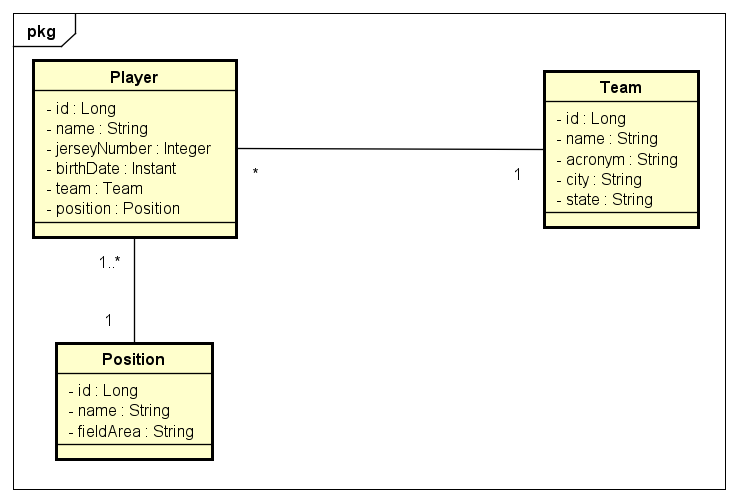
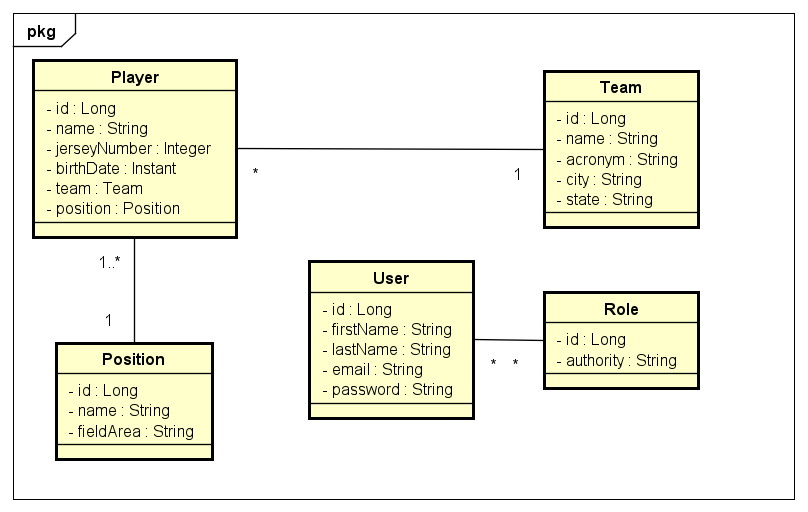
Atualizando modelo conceitual - UML

Changed region(s): [[0.0, 0.0, 0.9973, 0.9861], [0.374, 0.508, 0.8726, 0.8367]]

diff --git a/backend/src/main/java/br/com/brasoccerclub/soccerplayers/config/WebSecurityConfig.java b/backend/src/main/java/br/com/brasoccerclub/soccerplayers/config/WebSecurityConfig.java
@@ -28,7 +28,7 @@ public class WebSecurityConfig extends WebSecurityConfigurerAdapter {
 
 	@Override
 	public void configure(WebSecurity web) throws Exception {
-		web.ignoring().antMatchers("/actuator/**");
+		web.ignoring().antMatchers("/**");
 	}
 
 	@Override
